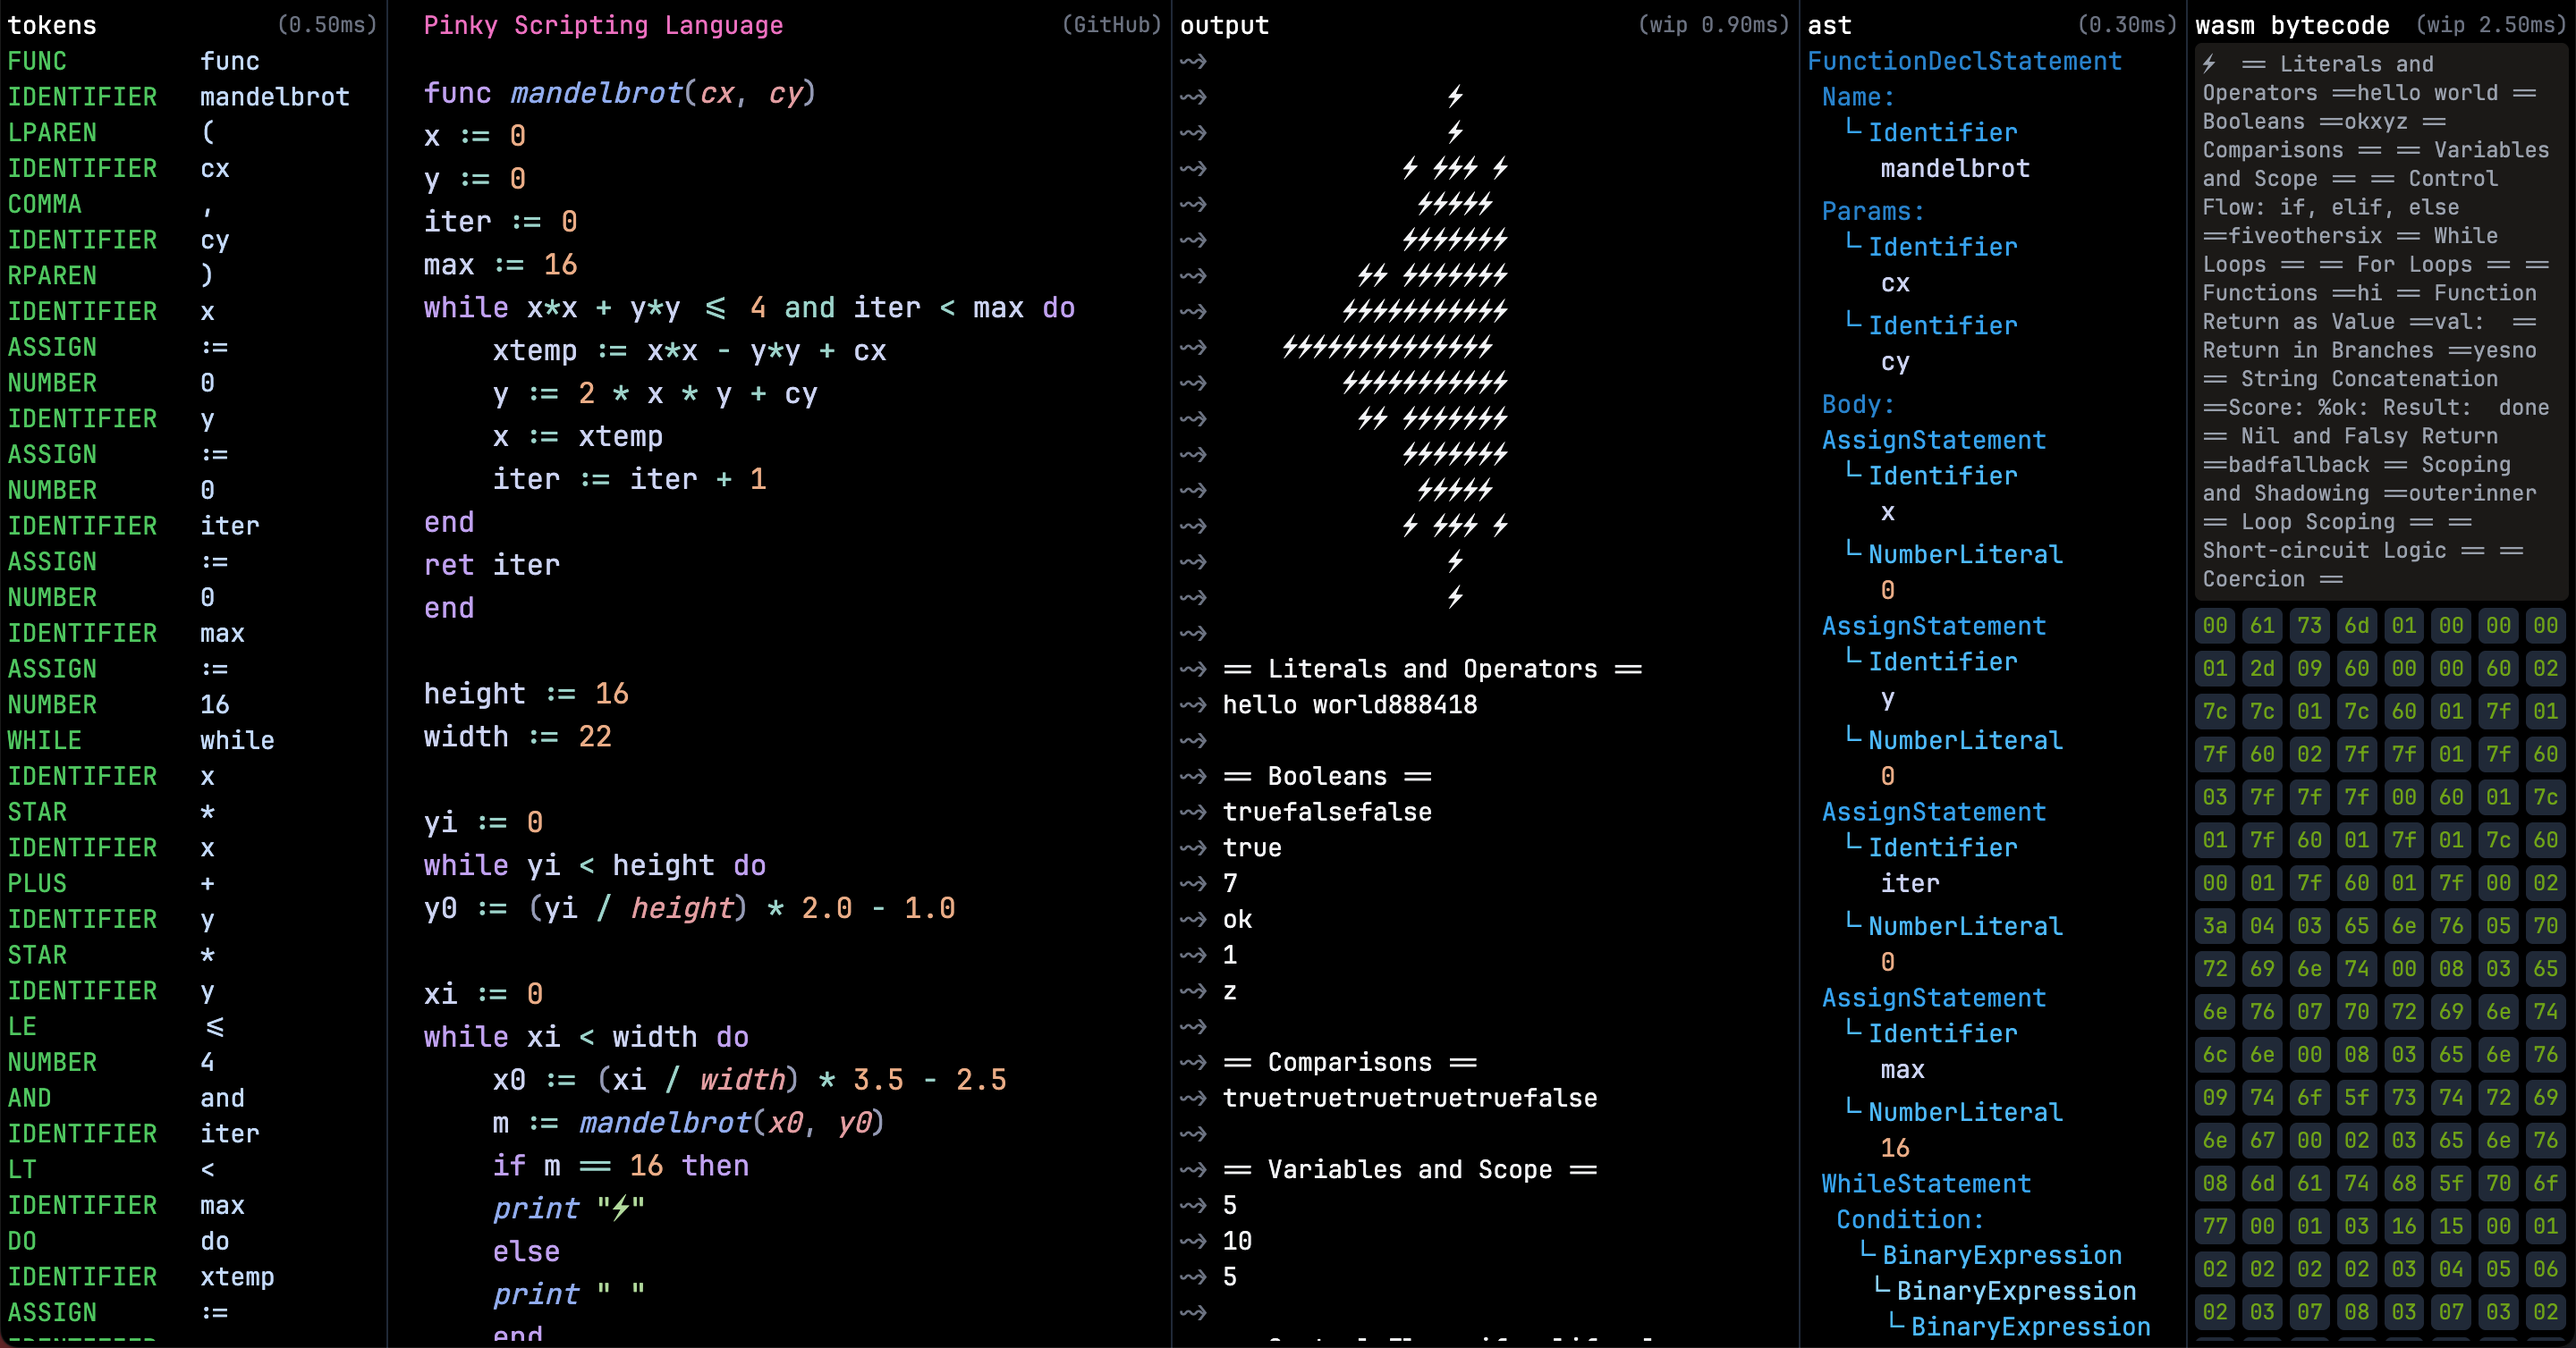
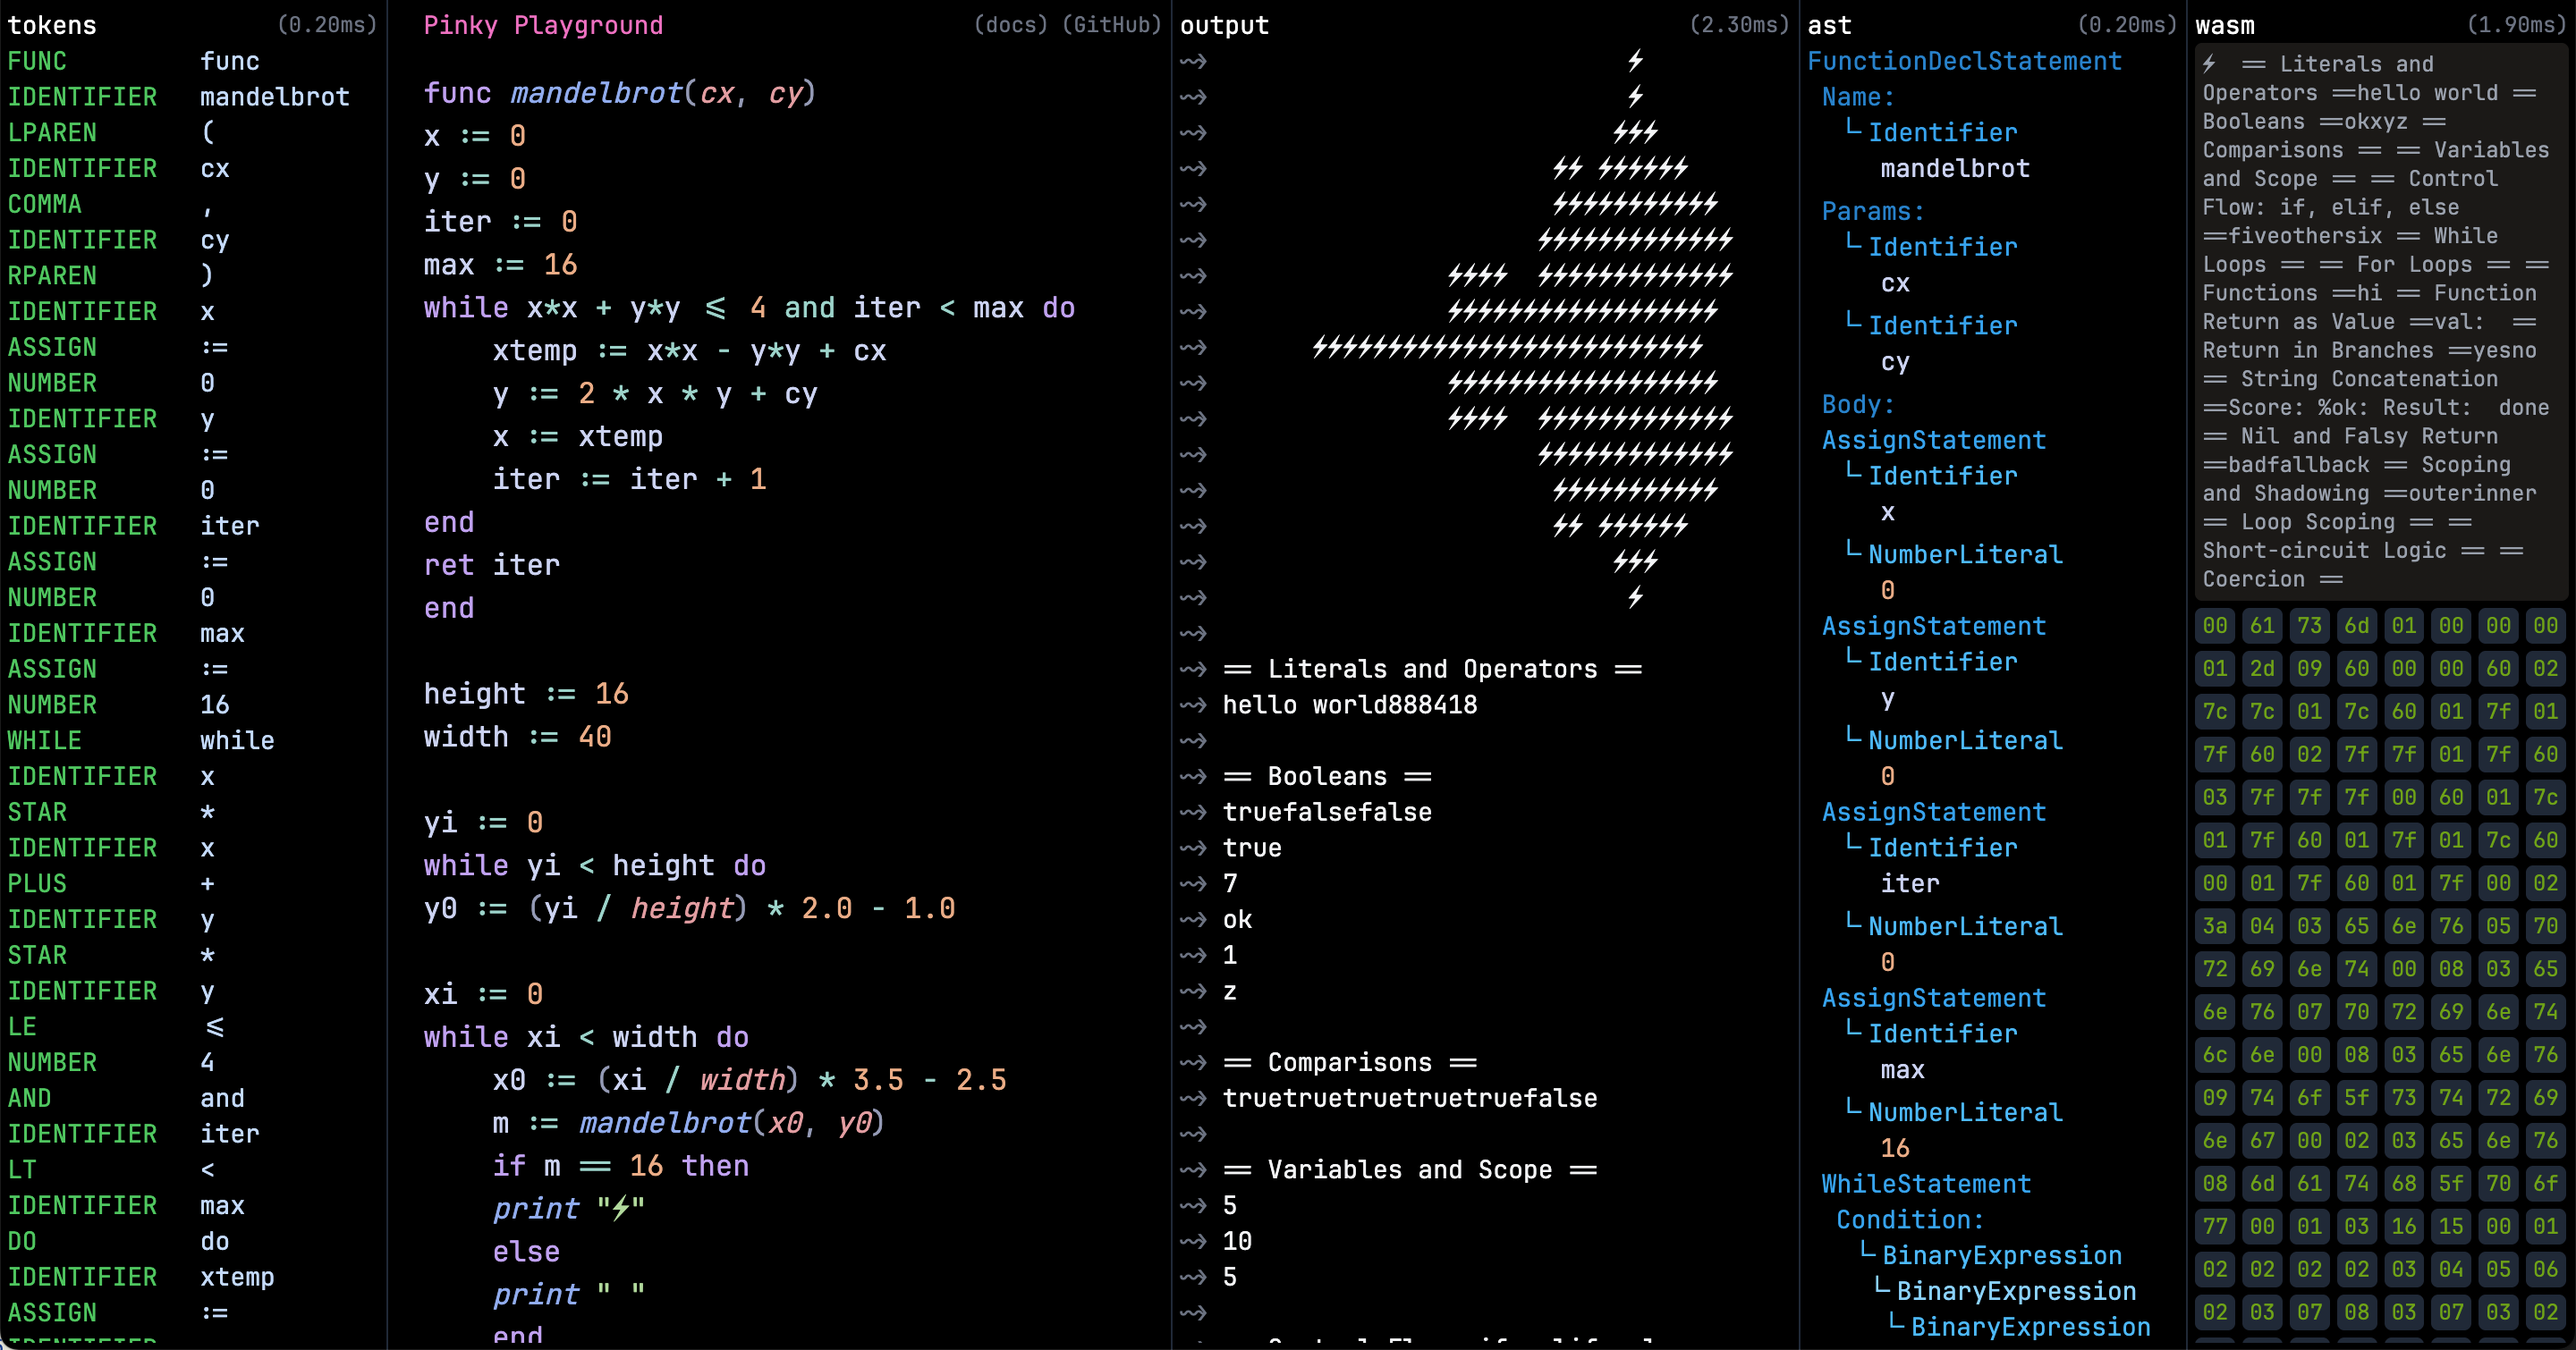
Update screenshot

diff --git a/src/App.tsx b/src/App.tsx
@@ -224,9 +224,7 @@ function App() {
                 "
 					>
 						<div className="flex items-center justify-between text-sm bg-black">
-							<div className="pl-4 text-[#FF66C4]">
-								Pinky Scripting Language
-							</div>
+							<div className="pl-4 text-[#FF66C4]">Pinky Playground</div>
 							<div className="flex gap-1.5">
 								<a
 									href="https://pinky-lang.org/"
